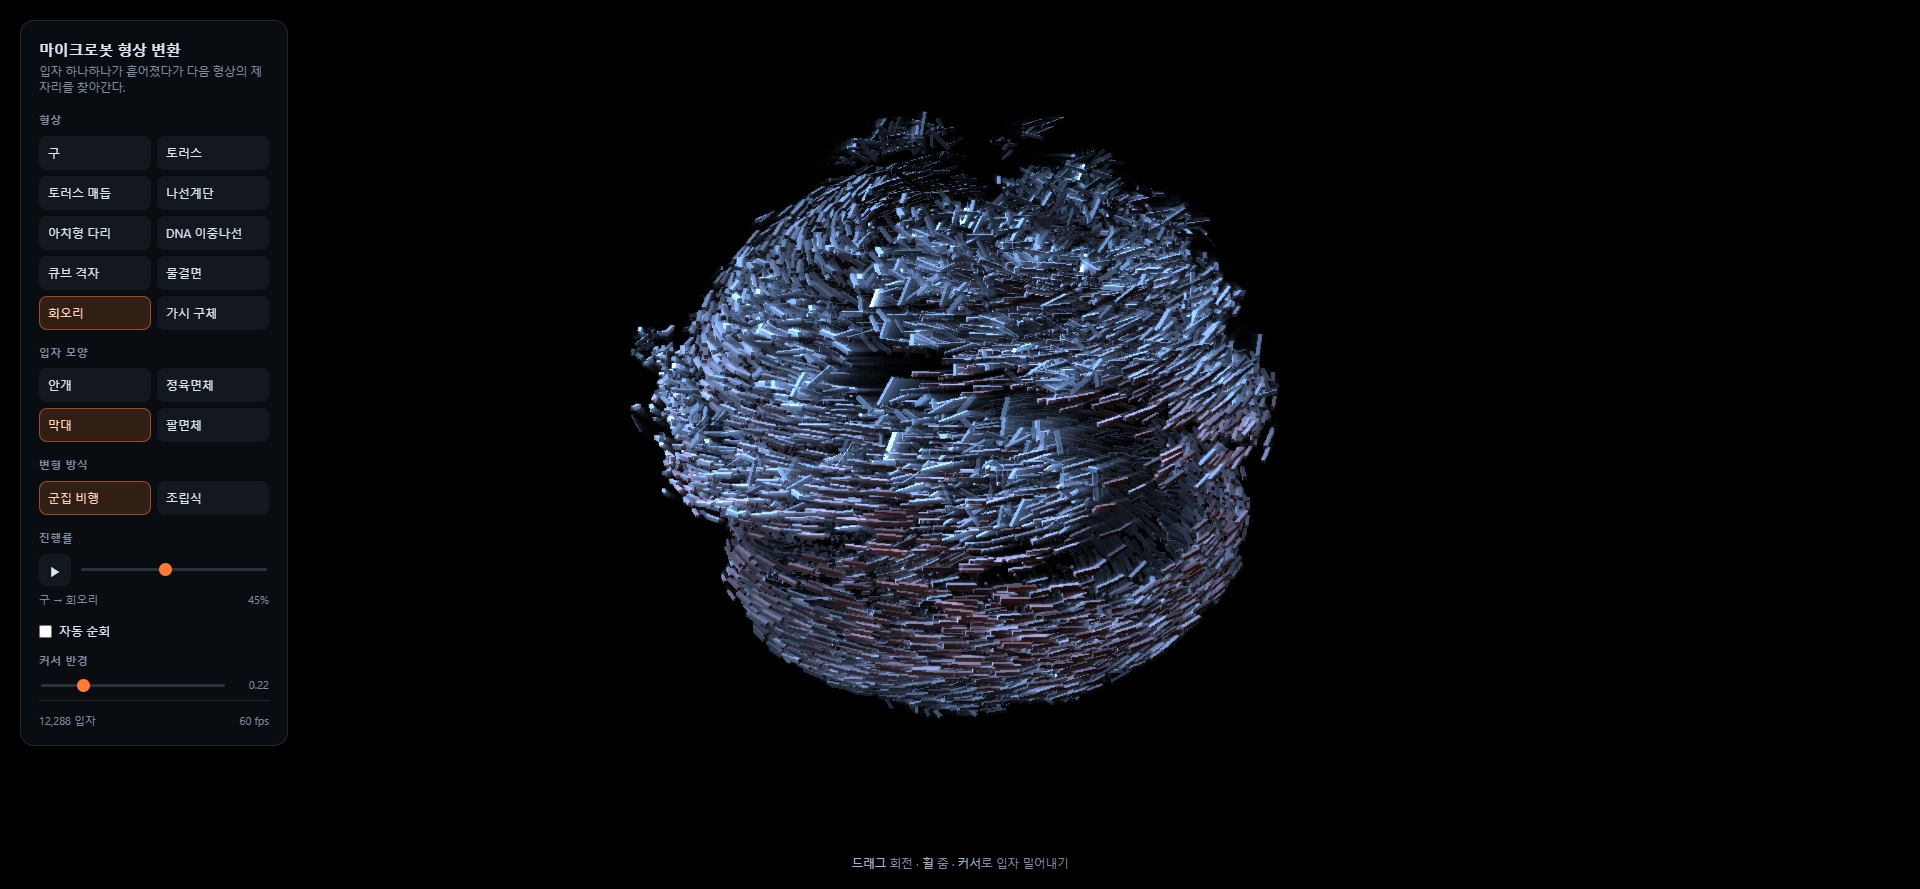
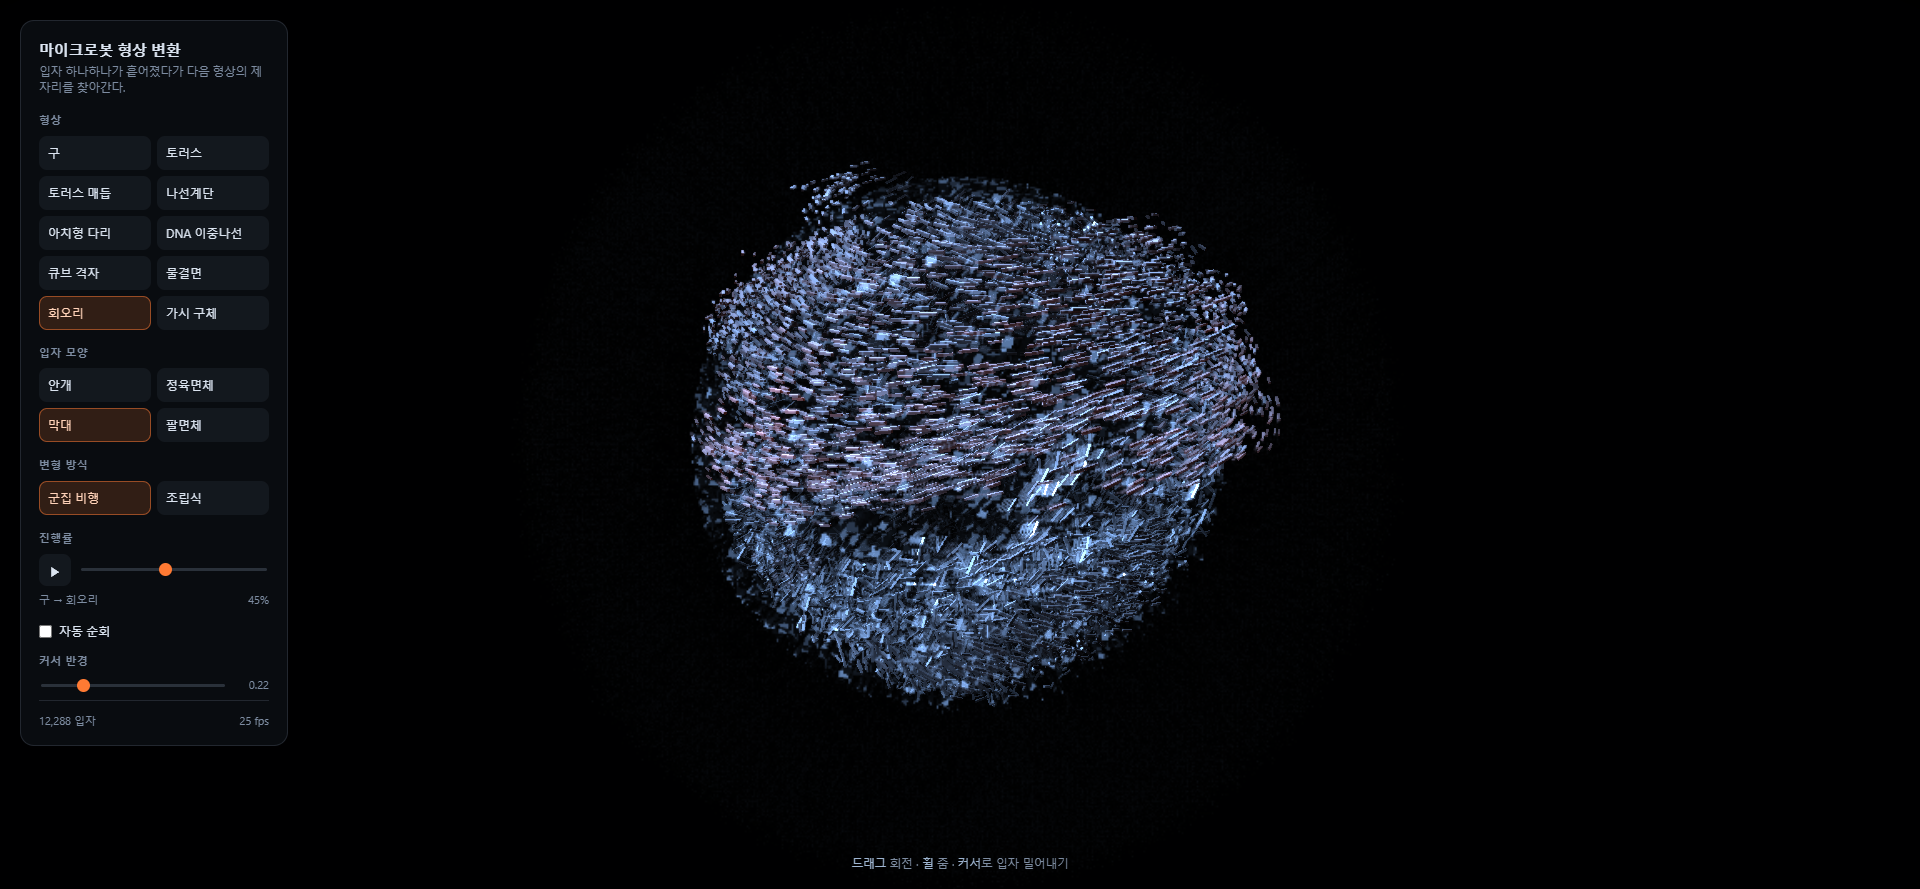
칩 크기 축소, 오프닝 돌리 취소 처리
칩이 너무 커서 크기를 줄였다. 정육면체 0.080→0.050, 팔면체 0.072→0.046,
막대 0.055→0.036.

확인하다 버그를 하나 잡았다. 오프닝 도중에 입자 모양을 바꾸면 재구성으로
intro가 꺼지면서 카메라 돌리가 중단돼, 카메라가 오프닝 시작 거리에
갇혔다. 돌리가 돌고 있었는지를 기억해 두었다가 꺼지는 순간 목표 거리로
당긴다 — 정상 종료와 중도 취소가 같은 경로로 처리된다.

Changed region(s): [[0.3125, 0.1215, 0.6875, 0.82]]

diff --git a/src/main.js b/src/main.js
@@ -172,6 +172,7 @@ canvas.addEventListener("pointerleave", () => { pointerOver = false; });
 const clock = new THREE.Clock();
 let fpsAccum = 0, fpsFrames = 0, fpsShown = 0;
 let probeTime = 0, probeFrames = 0, probeDone = false;
+let introDolly = false;
 
 function frame() {
   requestAnimationFrame(frame);
@@ -181,6 +182,12 @@ function frame() {
   // 오프닝 돌리 인. 멀리서 시작해야 흩어진 구름 전체가 프레임에 들어온다.
   if (morph.intro) {
     controls.setDistance(INTRO_FAR + (INTRO_NEAR - INTRO_FAR) * morph.progress);
+    introDolly = true;
+  } else if (introDolly) {
+    // 오프닝이 끝났거나, 도중에 입자 모양을 바꿔 재구성되면서 취소됐다.
+    // 여기서 한 번 당겨주지 않으면 카메라가 오프닝 시작 거리에 갇힌다.
+    introDolly = false;
+    controls.setDistance(INTRO_NEAR);
   }
 
   controls.update(dt);

diff --git a/src/chips.js b/src/chips.js
@@ -143,10 +143,7 @@ export function createChips(count, formId) {
     depthWrite: true,
     side: THREE.FrontSide,
     uniforms: Object.assign(pathUniforms(), {
-      // 입자가 적어진 만큼 하나가 커야 표면이 메워진다.
-      // 칩은 제각각 굴러 있어 종종 옆날이 보이므로, 넓이 계산보다
-      // 넉넉히 잡아야 형상에 구멍이 뚫려 보이지 않는다.
-      uChipSize: { value: formId === "rod" ? 0.055 : formId === "octa" ? 0.072 : 0.080 },
+      uChipSize: { value: formId === "rod" ? 0.036 : formId === "octa" ? 0.046 : 0.050 },
       uCamDist: { value: 6.3 },
       uSpeedScale: { value: 0.032 },
       uBaseColor: { value: new THREE.Color(0x141920) },

diff --git a/docs/superpowers/specs/2026-09-19-microbot-morph-design.md b/docs/superpowers/specs/2026-09-19-microbot-morph-design.md
@@ -216,6 +216,14 @@ three.js 코어만 CDN에서 가져온다. OrbitControls·EffectComposer 같은
 림라이트가 2~4px 스프라이트의 대부분을 덮었기 때문이지 기본색이 밝아서가
 아니었다. 칩에서는 어두운 기본색과 밝은 금속색 **사이를 오가게** 바꿨다.
 
+### 오프닝 돌리의 취소 처리
+
+오프닝 도중에 입자 모양을 바꾸면 세계가 재구성되면서 `intro`가 꺼진다.
+카메라 돌리를 `intro`가 켜져 있을 때만 몰았더니, 이 경우 카메라가 오프닝
+시작 거리(10.2)에 갇혔다. 돌리가 돌고 있었는지를 따로 기억해 두었다가,
+꺼지는 순간 한 번 목표 거리로 당긴다. 정상 종료와 중도 취소가 같은 경로로
+처리된다.
+
 ### 재구성 시 상태 보존
 
 모양을 바꾸면 입자 수와 지오메트리가 통째로 바뀌어 세계를 재구성한다.
